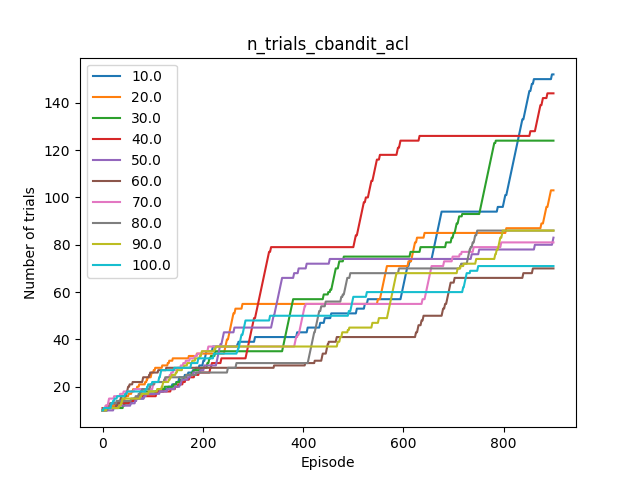
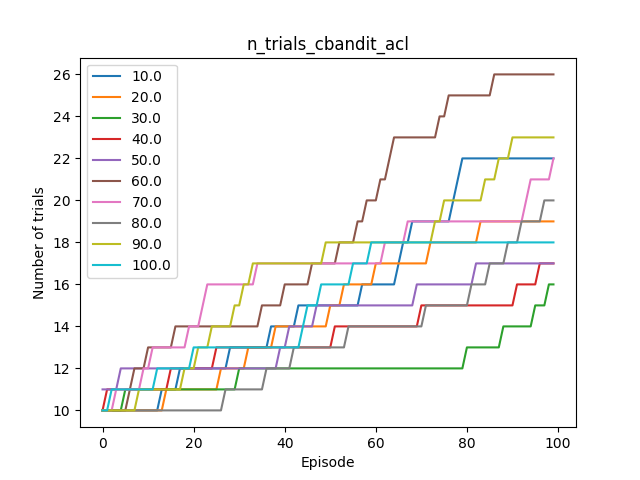
More refactoring

diff --git a/main.py b/main.py
@@ -10,7 +10,7 @@ MAX_HALLWAY_LENGTH = 100
 N_TASKS = 10
 BUFFER_SIZE = 10
 MAX_EPISODE_LENGTH = 500
-N_TOTAL_EPISODES = 200
+N_TOTAL_EPISODES = 20
 
 
 def run(env,agent,n_episodes):
@@ -59,11 +59,11 @@ def calc_slope_on_all_tasks(rewards_buffer, n_trials):
         slope.append(calc_slope(np.concatenate([rewards_buffer[i,(buffer_idx+1):],rewards_buffer[i,:(buffer_idx+1)]])))
     return np.array(slope)
 
-def train_on_final_task_only(agent):    
+def train_final_task(agent):    
     agent.reset()
     return run_task_n_times(N_TASKS-1,N_TOTAL_EPISODES,agent)
 
-def train_with_manual_curriculum(agent):    
+def train_manual_curriculum(agent):    
     agent.reset()
     rewards, n_trials_list, n_trials = [],[],np.zeros(N_TASKS)
     n_episodes_per_task = int(N_TOTAL_EPISODES/N_TASKS)
@@ -74,7 +74,7 @@ def train_with_manual_curriculum(agent):
             n_trials_list.append(n_trials.copy())
     return rewards, n_trials_list
 
-def train_with_uniform_samplling(agent):    
+def train_uniform_samplling(agent):    
     agent.reset()
     rewards, n_trials_list, n_trials = [],[],np.zeros(N_TASKS)
     for _ in range(N_TOTAL_EPISODES):
@@ -91,7 +91,7 @@ def init_rewards_buffer(agent):
         rewards_buffer[i] = np.array(run_task_n_times(i, BUFFER_SIZE,agent))
     return rewards_buffer
 
-def train_with_bandit_ACL(agent, use_slope_as_reward = True):
+def train_ACL_bandit(agent, use_slope_as_reward = True):
     agent.reset()
     bandit = Bandit(N_TASKS)    
     rewards, n_trials_list, learning_progress_list = [],[],[]
@@ -114,7 +114,7 @@ def train_with_bandit_ACL(agent, use_slope_as_reward = True):
         bandit.update_weights(idx,abs(learning_progress))
     return rewards, n_trials_list, learning_progress_list
 
-def train_with_Contextual_Bandit_ACL(agent, use_slope_as_reward= True):
+def train_ACL_contextual_bandit(agent, use_slope_as_reward= True):
     agent.reset()    
     rewards, n_trials_list, learning_progress_list = [],[],[]
     contextual_bandit = Contextual_Bandit(n_arms=N_TASKS,
@@ -141,16 +141,12 @@ def train_with_Contextual_Bandit_ACL(agent, use_slope_as_reward= True):
         contextual_bandit.learn(s,idx,learning_progress)
     return rewards, n_trials_list, learning_progress_list
 
-def train_with_RL_ACL(agent, use_slope_as_reward= True):
+def train_ACL_RL(agent, use_slope_as_reward= True):
     agent.reset()    
     rewards, n_trials_list, learning_progress_list = [],[],[]
-    if use_slope_as_reward:
-        name = 'rl_curr_learning_net_slope'
-    else:
-        name = 'rl_curr_learning_net_diff2mean'
     curr_agent = DeepQNetwork(n_actions=N_TASKS,
                       n_features=N_TASKS*BUFFER_SIZE,
-                      str = name,
+                      str = 'rl_curr_learning_net_'+('slope' if use_slope_as_reward else 'diff2mean'),
                       learning_rate=0.01, e_greedy=0.9, e_greedy_increment = 0.005,
                       replace_target_iter=5, memory_size=100)
     n_trials = np.zeros(N_TASKS)+BUFFER_SIZE
@@ -199,34 +195,23 @@ if __name__ == "__main__":
                       replace_target_iter=100, memory_size=2000)
     tasks = np.rint(np.linspace(MIN_HALLWAY_LENGTH,MAX_HALLWAY_LENGTH,N_TASKS))
 
+    str_map = {
+        'final_task':'Training on final task only',
+        'manual_curriculum':'Training with manual curriculum',
+        'uniform_sampling':'Training with uniform sampling',
+        'ACL_bandit':'Automated curriculum learning using bandit algorithm',
+        'ACL_contextual_bandit':'Automated curriculum learning using contextual bandit algorithm',
+        'ACL_RL':'Automated curriculum learning using reinforcement learning',
+    }
+    results = {}
+
+    results['test'] = train_final_task(agent),4
+
+    for k in str_map:
+        print(str_map[k])
+        results[k] = locals()['train_'+k](agent)
     
-    #Run without curriculum
-    print('Training on final task only...')
-    rewards_final_task_only = train_on_final_task_only(agent)
 
-    #Run with manual curriculum
-    print('Training with manual curriculum...')
-    rewards_manual_curr, n_trials_manual_curr = train_with_manual_curriculum(agent)
-
-    #Run with uniform sampling
-    print('Training with uniform sampling...')
-    rewards_uniform_sampling, n_trials_uniform_sampling = train_with_uniform_samplling(agent)
-
-    #Run with bandit curriculum
-    print('Automated curriculum learning using bandit algorithm, using slope as reward...')
-    rewards_bandit_acl_slope, n_trials_bandit_acl_slope, learning_progress_bandit_acl_slope = train_with_bandit_ACL(agent, True)
-    print('Automated curriculum learning using bandit algorithm, using difference to mean as reward...')
-    rewards_bandit_acl_diff2mean, n_trials_bandit_acl_diff2mean, learning_progress_bandit_acl_diff2mean = train_with_bandit_ACL(agent, False)
-
-    #Run with contextual bandit
-    print('Automated curriculum learning using contextual bandit algorithm')
-    rewards_cbandit_acl, n_trials_cbandit_acl, learning_progress_cbandit_acl = train_with_Contextual_Bandit_ACL(agent, True)
-
-    #Run with RL curriculum
-    print('Automated curriculum learning using reinforcement learning, using slope as reward...')
-    rewards_rl_acl_slope, n_trials_rl_acl_slope, learning_progress_rl_acl_slope = train_with_RL_ACL(agent, True)
-    print('Automated curriculum learning using reinforcement learning, using difference to mean as reward...')
-    rewards_rl_acl_diff2mean, n_trials_rl_acl_diff2mean, learning_progress_rl_acl_diff2mean = train_with_RL_ACL(agent, False)
 
     plot_data(rewards_final_task_only,'Reward','rewards_final_task_only')
     plot_data(rewards_manual_curr,'Reward','rewards_manual_curr')
@@ -251,3 +236,7 @@ if __name__ == "__main__":
     plot_data(learning_progress_rl_acl_slope,'Learning progress','learning_progress_rl_acl_slope')
     plot_data(learning_progress_rl_acl_diff2mean,'Learning progress','learning_progress_rl_acl_diff2mean')
 
+    # print('Automated curriculum learning using bandit algorithm, using difference to mean as reward...')
+    # rewards_bandit_acl_diff2mean, n_trials_bandit_acl_diff2mean, learning_progress_bandit_acl_diff2mean = train_with_bandit_ACL(agent, False)
+    # print('Automated curriculum learning using reinforcement learning, using difference to mean as reward...')
+    # rewards_rl_acl_diff2mean, n_trials_rl_acl_diff2mean, learning_progress_rl_acl_diff2mean = train_with_RL_ACL(agent, False)
